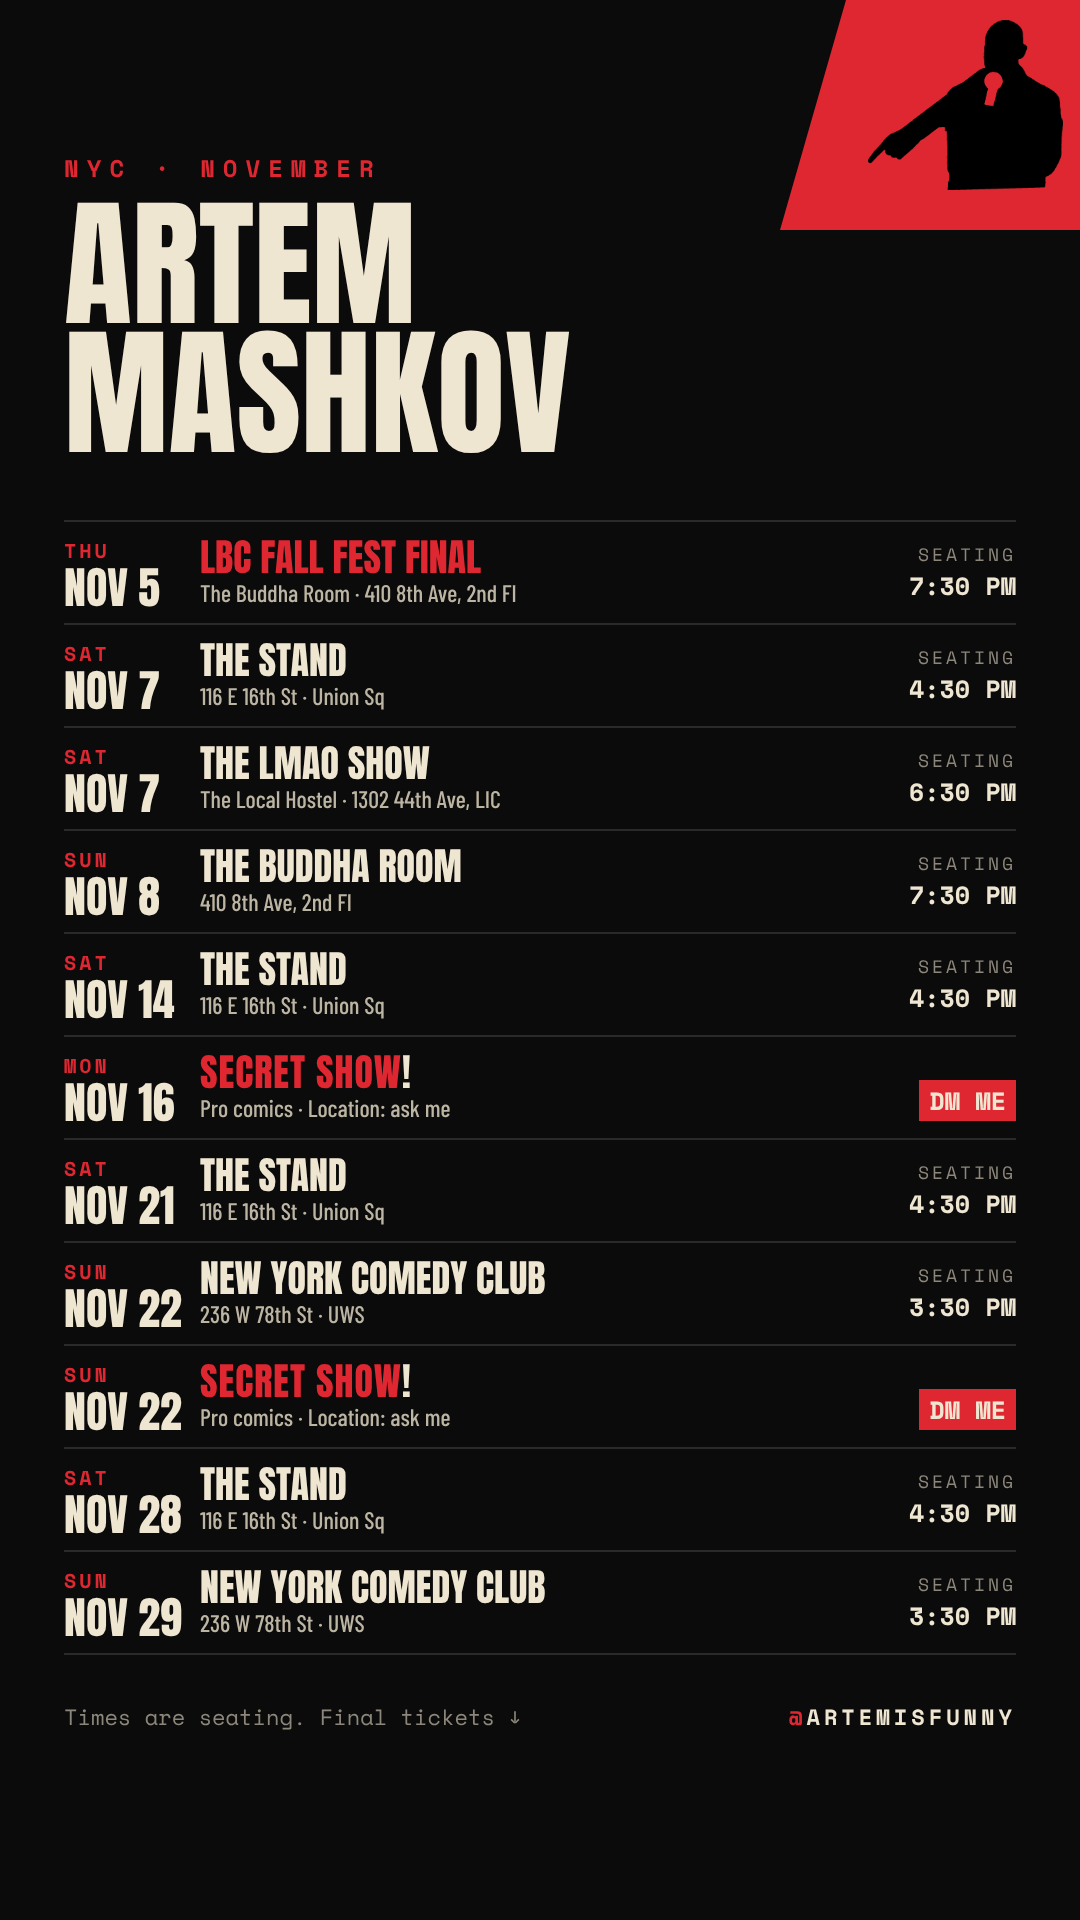
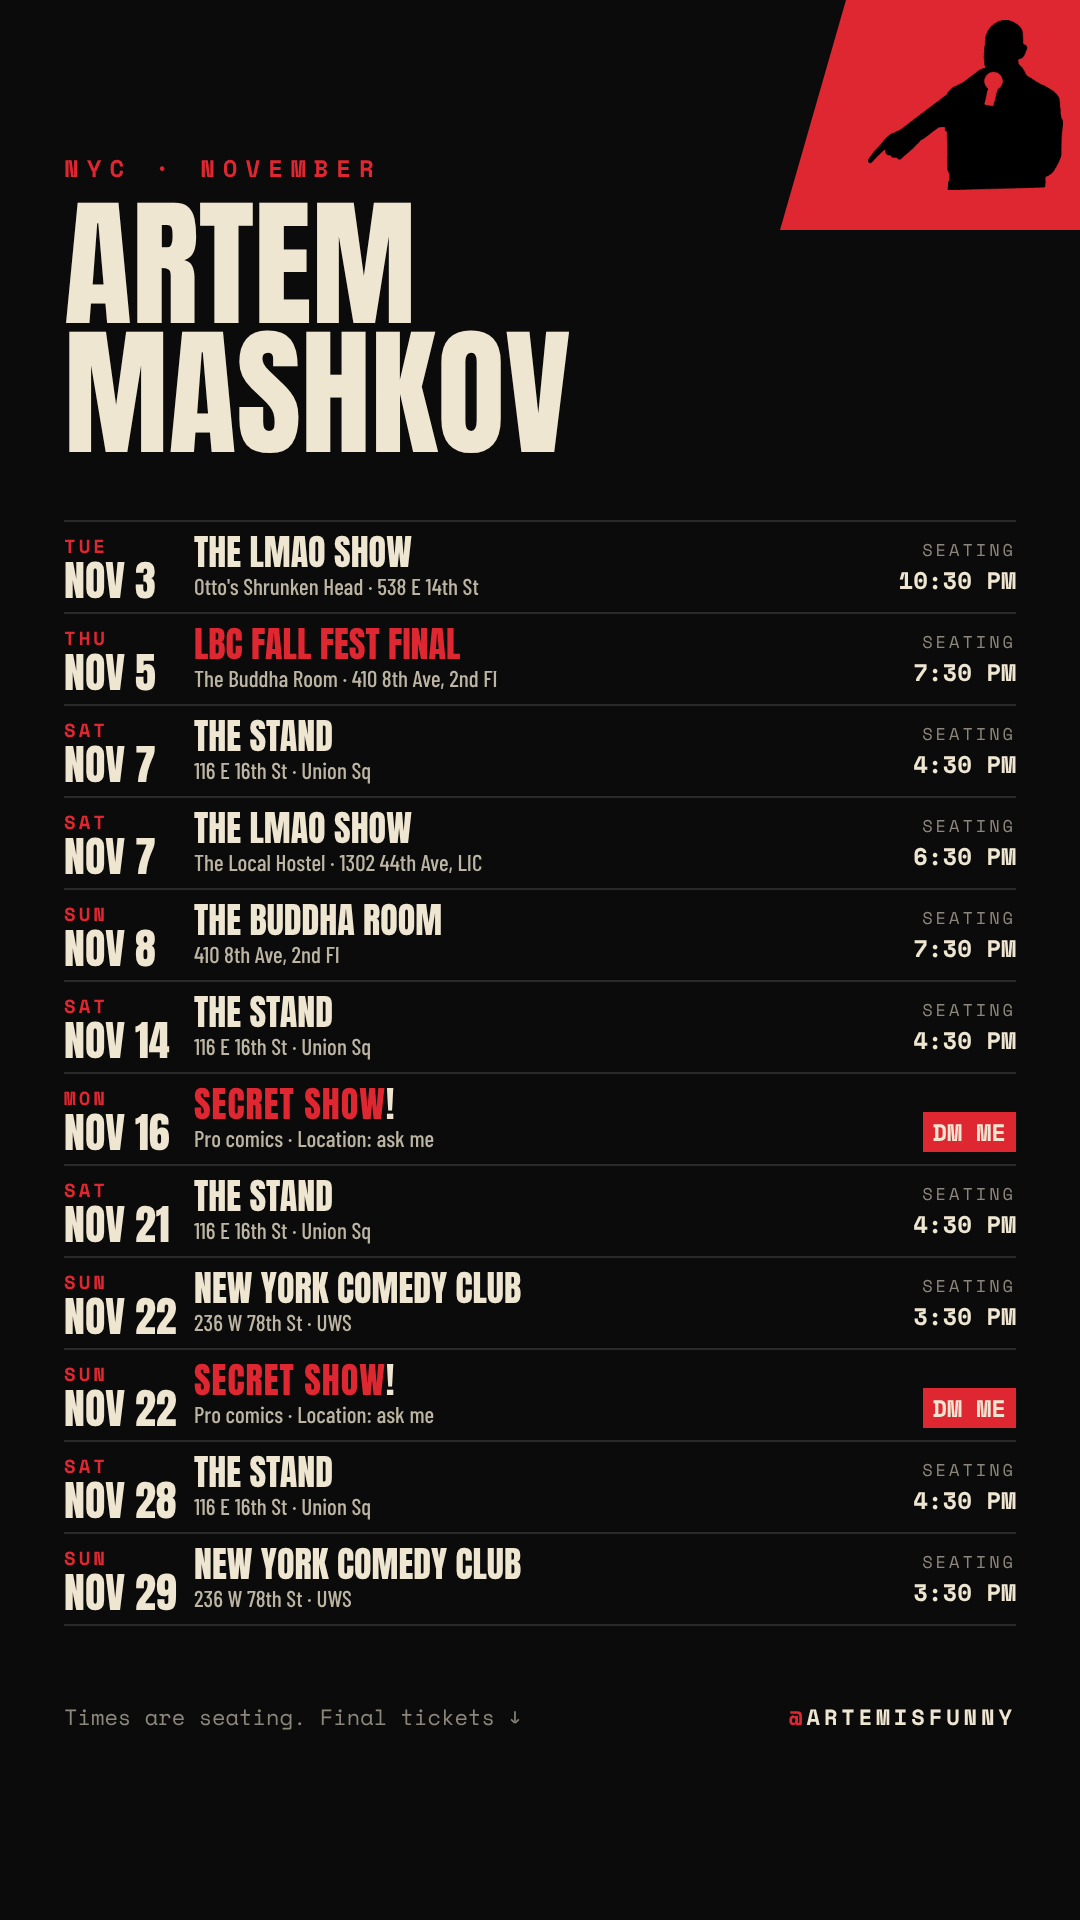
November post: add tonight's LMAO Show at Otto's
Claude-Session: https://claude.ai/code/session_01EF93tgUVhVexTD3MFBJ81b

Changed region(s): [[0.0611, 0.2812, 0.5194, 0.875], [0.825, 0.2812, 0.9472, 0.8438]]

diff --git a/nyc-november-2026/build.py b/nyc-november-2026/build.py
@@ -23,6 +23,7 @@ BUDDHA = ("THE BUDDHA ROOM", "410 8th Ave, 2nd Fl")
 
 # (day, date, seating, venue, address, note)
 SHOWS = [
+    ("TUE", "NOV 3", "10:30 PM", "THE LMAO SHOW", "Otto's Shrunken Head · 538 E 14th St", ""),
     ("THU", "NOV 5", "7:30 PM", "LBC FALL FEST FINAL", "The Buddha Room · 410 8th Ave, 2nd Fl", "final"),
     ("SAT", "NOV 7", "4:30 PM", *STAND, ""),
     ("SAT", "NOV 7", "6:30 PM", "THE LMAO SHOW", "The Local Hostel · 1302 44th Ave, LIC", ""),
@@ -103,7 +104,7 @@ def compact_rows(shows):
     out = []
     for dow, dt, seat, name, addr, note in shows:
         out.append(f"""
-<div class="row {note}" style="padding:9px 0">
+<div class="row {note}" style="padding:6px 0">
   <div class="d" style="width:138px;display:flex;align-items:baseline;gap:10px">
     <span class="dow" style="font-size:16px">{dow}</span><span class="dt" style="font-size:30px">{dt}</span>
   </div>
@@ -158,7 +159,7 @@ def story():
   <div class="anton" style="font-size:140px;line-height:.92;margin-top:14px">ARTEM<br>MASHKOV</div>
 </div>
 <div style="position:absolute;left:64px;right:64px;top:520px">
-  {rows(SHOWS, 44, 38, 24, 25, 14)}
+  {rows(SHOWS, 42, 36, 23, 24, 10)}
 </div>
 <div class="mono" style="position:absolute;left:64px;right:64px;top:1700px;font-size:22px;color:#8d877b">Times are seating. Final tickets ↓</div>
 <div class="handle" style="right:64px;top:1700px;font-size:22px"><b>@</b>ARTEMISFUNNY</div>
@@ -188,10 +189,10 @@ def render(name, html, w, h):
 
 if __name__ == "__main__":
     W = [
-        ("NOV 2 – 8", SHOWS[0:4], "", "WEEK 1"),
-        ("NOV 9 – 15", SHOWS[4:5], PHOTO_BAND, "WEEK 2"),
-        ("NOV 16 – 22", SHOWS[5:9], "", "WEEK 3"),
-        ("NOV 23 – 29", SHOWS[9:11], OUTRO, "WEEK 4"),
+        ("NOV 2 – 8", SHOWS[0:5], "", "WEEK 1"),
+        ("NOV 9 – 15", SHOWS[5:6], PHOTO_BAND, "WEEK 2"),
+        ("NOV 16 – 22", SHOWS[6:10], "", "WEEK 3"),
+        ("NOV 23 – 29", SHOWS[10:12], OUTRO, "WEEK 4"),
     ]
     for f in OUT.glob("nov_carousel_*.png"):
         f.unlink()

diff --git a/nyc-november-2026/captions.md b/nyc-november-2026/captions.md
@@ -7,7 +7,7 @@ Photo on the cover: LBC prelim 10/17, The Buddha Room (`photos/lbc-prelim-2026-1
 ## Caption options (pick one)
 
 1.
-Eleven shows before Switzerland takes me back. Two of them I'm not allowed to talk about.
+Twelve shows before Switzerland takes me back. Two of them I'm not allowed to talk about.
 
 Final tickets: link in bio. Times on the slides are seating.
 @LaughingBuddhaComedy #LBC #LBCFF
@@ -32,6 +32,7 @@ LBC Fall Fest final, Thu Nov 5: https://www.tickettailor.com/events/laughingbudd
 
 | Date | Show (Workbook) | Showtime | Seating | Workbook status |
 |---|---|---|---|---|
+| Tue Nov 3 | The LMAO Show, Otto's Shrunken Head | 11:00 PM | 10:30 PM | confirmed (calendar + Workbook) |
 | Thu Nov 5 | LBC Fall Fest Finals, The Buddha Room | 8:00 PM | 7:30 PM | confirmed |
 | Sat Nov 7 | LBC No Pressure Saturday, The Stand | 5:00 PM | 4:30 PM | self-booked, approval not verified |
 | Sat Nov 7 | The LMAO Show, The Local Hostel LIC | 7:00 PM | 6:30 PM | guest spot confirmed |
@@ -44,4 +45,4 @@ LBC Fall Fest final, Thu Nov 5: https://www.tickettailor.com/events/laughingbudd
 | Sat Nov 28 | LBC No Pressure Saturday, The Stand | 5:00 PM | 4:30 PM | planned, no request sent |
 | Sun Nov 29 | LBC Get Passed, NYCC UWS | 4:00 PM | 3:30 PM | planned, no request sent |
 
-Left off: The LMAO Show at Otto's, Tue Nov 3 11 PM (tonight, before the post goes up). Nothing booked Dec 1-4.
+Nothing booked Dec 1-4.
